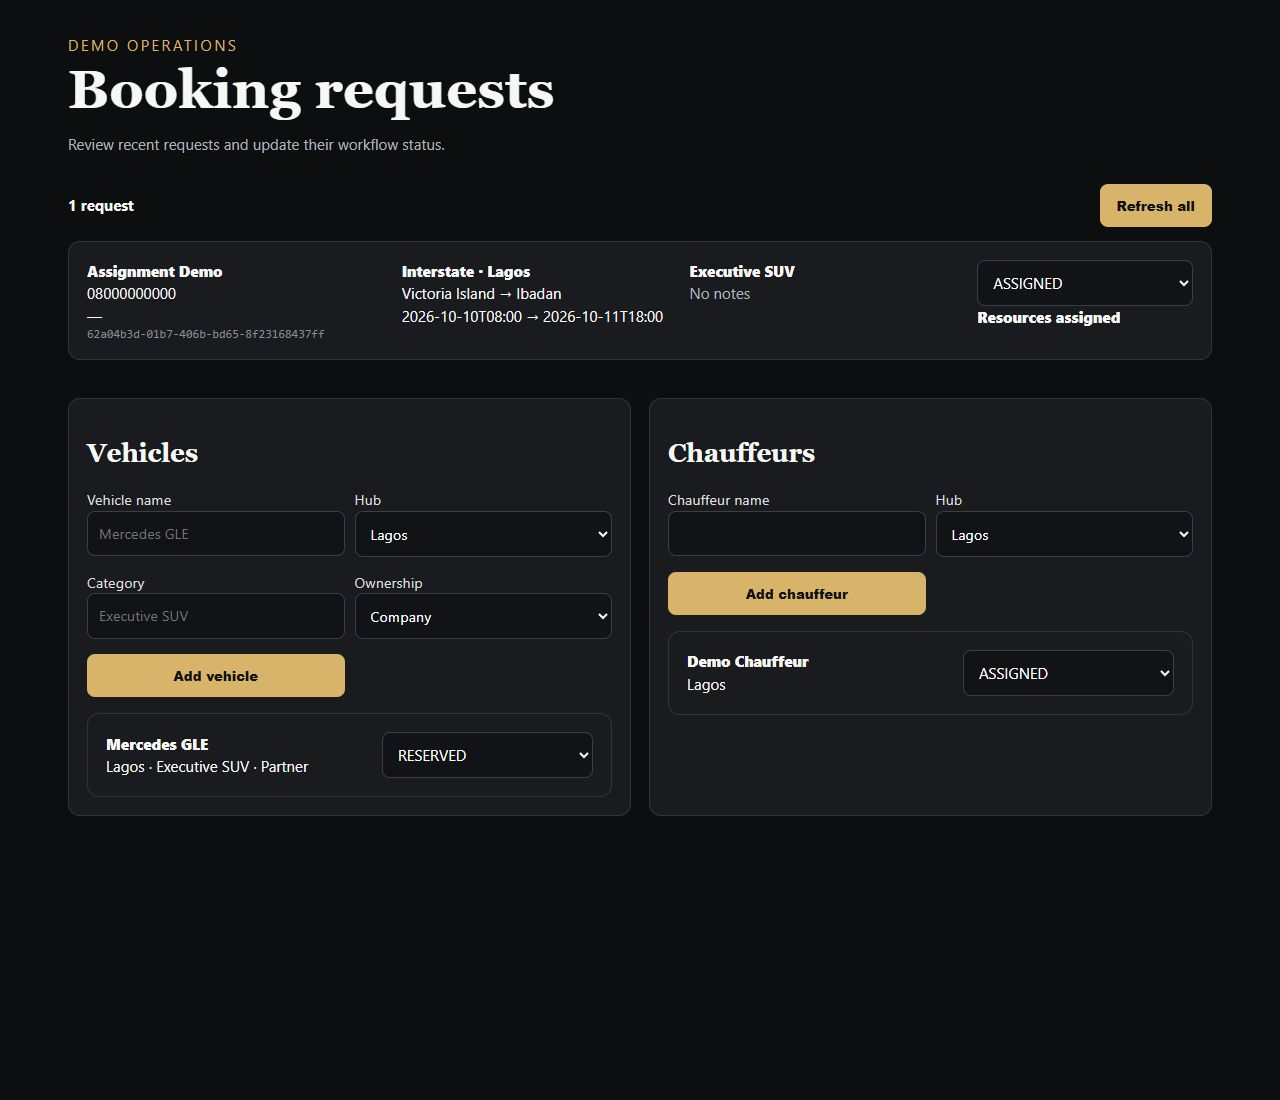
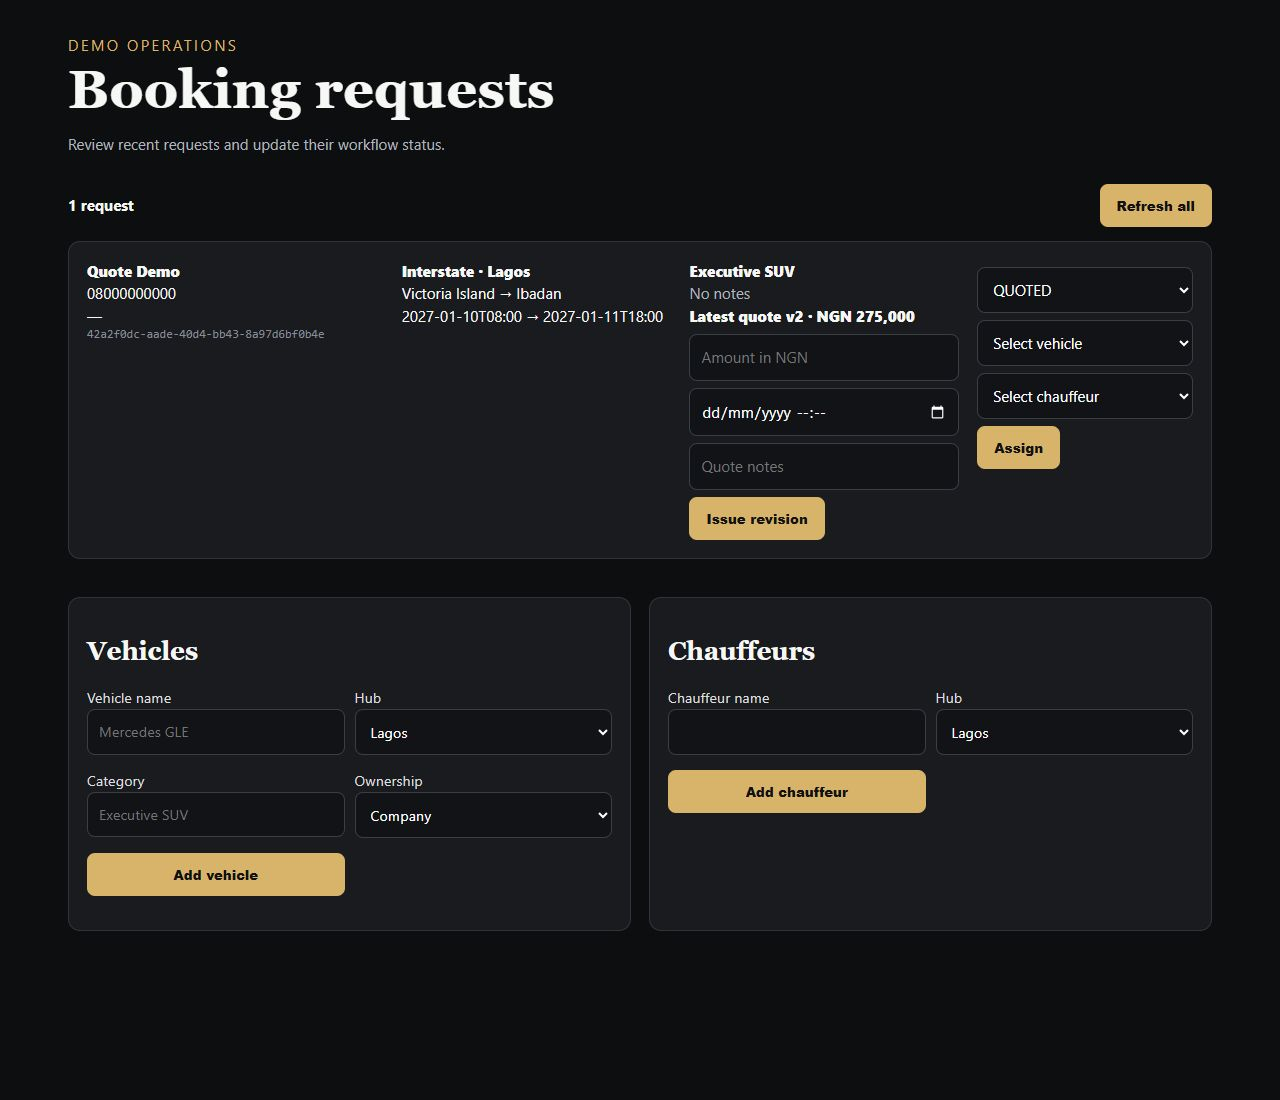
feat: add versioned quotation workflow

diff --git a/infra/environments/demo/app/handler.py b/infra/environments/demo/app/handler.py
@@ -15,9 +15,11 @@ import boto3
 BOOKINGS_TABLE_NAME = os.environ["BOOKINGS_TABLE"]
 VEHICLES_TABLE_NAME = os.environ["VEHICLES_TABLE"]
 CHAUFFEURS_TABLE_NAME = os.environ["CHAUFFEURS_TABLE"]
+QUOTES_TABLE_NAME = os.environ["QUOTES_TABLE"]
 TABLE = boto3.resource("dynamodb").Table(BOOKINGS_TABLE_NAME)
 VEHICLES = boto3.resource("dynamodb").Table(VEHICLES_TABLE_NAME)
 CHAUFFEURS = boto3.resource("dynamodb").Table(CHAUFFEURS_TABLE_NAME)
+QUOTES = boto3.resource("dynamodb").Table(QUOTES_TABLE_NAME)
 DYNAMO_CLIENT = boto3.client("dynamodb")
 ALLOWED_ORIGIN = os.environ.get("ALLOWED_ORIGIN", "*")
 TTL_DAYS = int(os.environ.get("BOOKING_TTL_DAYS", "30"))
@@ -282,6 +284,71 @@ def assign_booking(event, booking_id):
     return response(200, {"booking_id": booking_id, "status": "ASSIGNED", "vehicle_id": vehicle_id, "chauffeur_id": chauffeur_id})
 
 
+def booking_quotes(booking_id):
+    items = [item for item in QUOTES.scan(Limit=100).get("Items", []) if item.get("booking_id") == booking_id]
+    return sorted(items, key=lambda item: int(item.get("version", 0)), reverse=True)
+
+
+def manage_quotes(event, booking_id):
+    denied = require_admin(event)
+    if denied:
+        return denied
+    booking = TABLE.get_item(Key={"booking_id": booking_id}).get("Item")
+    if not booking:
+        return response(404, {"error": "Booking request not found."})
+    method = event.get("requestContext", {}).get("http", {}).get("method")
+    quotes = booking_quotes(booking_id)
+    if method == "GET":
+        return response(200, {"quotes": quotes, "count": len(quotes)})
+    try:
+        data = json.loads(event.get("body") or "{}")
+        amount_ngn = int(data.get("amount_ngn"))
+        valid_until = clean(data.get("valid_until"), 40)
+        valid_time = datetime.fromisoformat(valid_until)
+    except (json.JSONDecodeError, TypeError, ValueError):
+        return response(400, {"error": "Provide a whole-number NGN amount and valid expiry time."})
+    if amount_ngn < 1 or amount_ngn > 100_000_000:
+        return response(400, {"error": "Quote amount must be between NGN 1 and NGN 100,000,000."})
+    if valid_time <= datetime.now():
+        return response(400, {"error": "Quote expiry must be in the future."})
+    version = max((int(item.get("version", 0)) for item in quotes), default=0) + 1
+    quote_id = f"{booking_id}#{version}"
+    now = int(time.time())
+    quote = {
+        "quote_id": quote_id,
+        "booking_id": booking_id,
+        "version": version,
+        "amount_ngn": amount_ngn,
+        "valid_until": valid_until,
+        "notes": clean(data.get("notes"), 500),
+        "status": "ISSUED",
+        "created_at": now,
+        "expires_at": int(valid_time.timestamp()) + (30 * 86400),
+    }
+    try:
+        QUOTES.put_item(Item=quote, ConditionExpression="attribute_not_exists(quote_id)")
+    except Exception as error:
+        error_response = getattr(error, "response", {})
+        if error_response.get("Error", {}).get("Code") == "ConditionalCheckFailedException":
+            return response(409, {"error": "A quote was issued concurrently; refresh and try again."})
+        raise
+    TABLE.update_item(
+        Key={"booking_id": booking_id},
+        UpdateExpression="SET #s = :quoted, latest_quote_id = :quote_id, quote_version = :version, quote_amount_ngn = :amount, updated_at = :updated",
+        ExpressionAttributeNames={"#s": "status"},
+        ExpressionAttributeValues={":quoted": "QUOTED", ":quote_id": quote_id, ":version": version, ":amount": amount_ngn, ":updated": now},
+    )
+    return response(201, quote)
+
+
+def latest_quote(booking_id):
+    quotes = booking_quotes(booking_id)
+    if not quotes:
+        return response(404, {"error": "No quote has been issued for this booking."})
+    quote = quotes[0]
+    return response(200, {key: quote[key] for key in ("booking_id", "version", "amount_ngn", "valid_until", "notes", "status")})
+
+
 def page():
     return """<!doctype html>
 <html lang="en"><head><meta charset="utf-8"><meta name="viewport" content="width=device-width,initial-scale=1">
@@ -311,7 +378,7 @@ def admin_page():
     return """<!doctype html>
 <html lang="en"><head><meta charset="utf-8"><meta name="viewport" content="width=device-width,initial-scale=1">
 <title>Operations Dashboard</title><style>
-:root{color-scheme:dark;--gold:#d8b36a;--panel:#191b1f;--muted:#aeb4be}*{box-sizing:border-box}body{margin:0;background:#0d0e10;color:#f7f7f5;font:15px/1.5 system-ui,sans-serif}.wrap{max-width:1180px;margin:auto;padding:34px 18px 60px}h1{font:700 clamp(2rem,5vw,3.4rem)/1.05 Georgia,serif;margin:.3rem 0}h2{font:700 1.6rem Georgia,serif}.eyebrow{color:var(--gold);letter-spacing:.16em;text-transform:uppercase}.muted{color:var(--muted)}.login,.card,.panel,.resource{background:var(--panel);border:1px solid #30343a;border-radius:12px;padding:18px}.login{max-width:520px;margin:28px 0}.row{display:flex;gap:10px;align-items:end}label{display:block;color:#ddd;font-size:.9rem;margin-bottom:5px;flex:1}input,select{width:100%;background:#111317;color:white;border:1px solid #3a3e45;border-radius:8px;padding:11px;font:inherit}button{background:var(--gold);border:0;border-radius:8px;color:#111;font-weight:800;padding:12px 17px;cursor:pointer}.toolbar{display:flex;justify-content:space-between;align-items:center;margin:28px 0 14px}.cards,.resource-list{display:grid;gap:12px}.card{display:grid;grid-template-columns:1.1fr 1fr 1fr .8fr;gap:18px}.inventory{display:grid;grid-template-columns:1fr 1fr;gap:18px;margin-top:38px}.form-grid{display:grid;grid-template-columns:1fr 1fr;gap:10px;margin-bottom:16px}.form-grid button{align-self:end}.resource{display:grid;grid-template-columns:1fr .8fr;gap:12px;align-items:center}.name{font-weight:800}.ref{font:12px monospace;color:#858c97;overflow-wrap:anywhere}.error{color:#ff9c9c}.hidden{display:none}@media(max-width:780px){.card,.inventory{grid-template-columns:1fr}.row{align-items:stretch;flex-direction:column}.form-grid{grid-template-columns:1fr}}
+:root{color-scheme:dark;--gold:#d8b36a;--panel:#191b1f;--muted:#aeb4be}*{box-sizing:border-box}body{margin:0;background:#0d0e10;color:#f7f7f5;font:15px/1.5 system-ui,sans-serif}.wrap{max-width:1180px;margin:auto;padding:34px 18px 60px}h1{font:700 clamp(2rem,5vw,3.4rem)/1.05 Georgia,serif;margin:.3rem 0}h2{font:700 1.6rem Georgia,serif}.eyebrow{color:var(--gold);letter-spacing:.16em;text-transform:uppercase}.muted{color:var(--muted)}.login,.card,.panel,.resource{background:var(--panel);border:1px solid #30343a;border-radius:12px;padding:18px}.login{max-width:520px;margin:28px 0}.row{display:flex;gap:10px;align-items:end}label{display:block;color:#ddd;font-size:.9rem;margin-bottom:5px;flex:1}input,select{width:100%;background:#111317;color:white;border:1px solid #3a3e45;border-radius:8px;padding:11px;font:inherit}button{background:var(--gold);border:0;border-radius:8px;color:#111;font-weight:800;padding:12px 17px;cursor:pointer}.toolbar{display:flex;justify-content:space-between;align-items:center;margin:28px 0 14px}.cards,.resource-list{display:grid;gap:12px}.card{display:grid;grid-template-columns:1.1fr 1fr 1fr .8fr;gap:18px}.card input,.card select,.card button{margin-top:7px}.inventory{display:grid;grid-template-columns:1fr 1fr;gap:18px;margin-top:38px}.form-grid{display:grid;grid-template-columns:1fr 1fr;gap:10px;margin-bottom:16px}.form-grid button{align-self:end}.resource{display:grid;grid-template-columns:1fr .8fr;gap:12px;align-items:center}.name{font-weight:800}.ref{font:12px monospace;color:#858c97;overflow-wrap:anywhere}.error{color:#ff9c9c}.hidden{display:none}@media(max-width:780px){.card,.inventory{grid-template-columns:1fr}.row{align-items:stretch;flex-direction:column}.form-grid{grid-template-columns:1fr}}
 </style></head><body><main class="wrap"><div class="eyebrow">Demo operations</div><h1>Booking requests</h1><p class="muted">Review recent requests and update their workflow status.</p>
 <section id="login" class="login"><div class="row"><label>Admin password<input id="password" type="password" autocomplete="current-password"></label><button id="open">Open dashboard</button></div><p id="message" class="error" role="alert"></p></section>
 <section id="dashboard" class="hidden"><div class="toolbar"><strong id="count">Requests</strong><button id="refresh">Refresh all</button></div><div id="cards" class="cards"></div>
@@ -324,7 +391,7 @@ const vehicleStatuses=['AVAILABLE','RESERVED','ON_TRIP','MAINTENANCE','INACTIVE'
 function field(parent,text,cls=''){const node=document.createElement('div');node.textContent=text||'—';if(cls)node.className=cls;parent.append(node)}
 async function api(path,options={}){options.headers={...(options.headers||{}),'x-admin-password':password.value};const response=await fetch(path,options),data=await response.json();if(!response.ok)throw Error(data.error||'Request failed');return data}
 function choice(items,idField,label){const select=document.createElement('select'),placeholder=document.createElement('option');placeholder.value='';placeholder.textContent=label;select.append(placeholder);for(const item of items){const option=document.createElement('option');option.value=item[idField];option.textContent=item.name;select.append(option)}return select}
-function render(items,vehicleItems,chauffeurItems){cards.replaceChildren();count.textContent=items.length+' request'+(items.length===1?'':'s');for(const item of items){const card=document.createElement('article');card.className='card';const who=document.createElement('div');field(who,item.name,'name');field(who,item.phone);field(who,item.email);field(who,item.booking_id,'ref');const trip=document.createElement('div');field(trip,item.trip_type+' · '+item.hub,'name');field(trip,item.pickup+' → '+item.destination);field(trip,item.pickup_at+' → '+item.end_at);const vehicle=document.createElement('div');field(vehicle,item.vehicle_preference||'No vehicle preference','name');field(vehicle,item.notes||'No notes','muted');const control=document.createElement('div'),select=document.createElement('select');for(const status of statuses){const option=document.createElement('option');option.value=option.textContent=status;option.selected=status===item.status;select.append(option)}select.addEventListener('change',async()=>{select.disabled=true;try{await api('/admin/bookings/'+encodeURIComponent(item.booking_id),{method:'PATCH',headers:{'content-type':'application/json'},body:JSON.stringify({status:select.value})})}catch(error){message.textContent=error.message}finally{select.disabled=false}});control.append(select);if(!item.vehicle_id&&!item.chauffeur_id){const availableVehicles=vehicleItems.filter(resource=>resource.hub===item.hub&&resource.status==='AVAILABLE'),availableChauffeurs=chauffeurItems.filter(resource=>resource.hub===item.hub&&resource.status==='AVAILABLE'),vehicleChoice=choice(availableVehicles,'vehicle_id','Select vehicle'),chauffeurChoice=choice(availableChauffeurs,'chauffeur_id','Select chauffeur'),assign=document.createElement('button');assign.textContent='Assign';assign.addEventListener('click',async()=>{if(!vehicleChoice.value||!chauffeurChoice.value){message.textContent='Select both a vehicle and chauffeur.';return}assign.disabled=true;try{await api('/admin/bookings/'+encodeURIComponent(item.booking_id)+'/assignment',{method:'PATCH',headers:{'content-type':'application/json'},body:JSON.stringify({vehicle_id:vehicleChoice.value,chauffeur_id:chauffeurChoice.value})});await load()}catch(error){message.textContent=error.message}finally{assign.disabled=false}});control.append(vehicleChoice,chauffeurChoice,assign)}else{field(control,'Resources assigned','name')}card.append(who,trip,vehicle,control);cards.append(card)}}
+function render(items,vehicleItems,chauffeurItems){cards.replaceChildren();count.textContent=items.length+' request'+(items.length===1?'':'s');for(const item of items){const card=document.createElement('article');card.className='card';const who=document.createElement('div');field(who,item.name,'name');field(who,item.phone);field(who,item.email);field(who,item.booking_id,'ref');const trip=document.createElement('div');field(trip,item.trip_type+' · '+item.hub,'name');field(trip,item.pickup+' → '+item.destination);field(trip,item.pickup_at+' → '+item.end_at);const vehicle=document.createElement('div');field(vehicle,item.vehicle_preference||'No vehicle preference','name');field(vehicle,item.notes||'No notes','muted');if(item.quote_version)field(vehicle,'Latest quote v'+item.quote_version+' · NGN '+Number(item.quote_amount_ngn).toLocaleString(),'name');const quoteAmount=document.createElement('input'),quoteExpiry=document.createElement('input'),quoteNotes=document.createElement('input'),issueQuote=document.createElement('button');quoteAmount.type='number';quoteAmount.min='1';quoteAmount.placeholder='Amount in NGN';quoteAmount.setAttribute('aria-label','Quote amount in NGN');quoteExpiry.type='datetime-local';quoteExpiry.setAttribute('aria-label','Quote expiry');quoteNotes.placeholder='Quote notes';quoteNotes.setAttribute('aria-label','Quote notes');issueQuote.textContent=item.quote_version?'Issue revision':'Issue quote';issueQuote.addEventListener('click',async()=>{if(!quoteAmount.value||!quoteExpiry.value){message.textContent='Enter a quote amount and expiry.';return}issueQuote.disabled=true;try{await api('/admin/bookings/'+encodeURIComponent(item.booking_id)+'/quotes',{method:'POST',headers:{'content-type':'application/json'},body:JSON.stringify({amount_ngn:Number(quoteAmount.value),valid_until:quoteExpiry.value,notes:quoteNotes.value})});await load()}catch(error){message.textContent=error.message}finally{issueQuote.disabled=false}});vehicle.append(quoteAmount,quoteExpiry,quoteNotes,issueQuote);const control=document.createElement('div'),select=document.createElement('select');for(const status of statuses){const option=document.createElement('option');option.value=option.textContent=status;option.selected=status===item.status;select.append(option)}select.addEventListener('change',async()=>{select.disabled=true;try{await api('/admin/bookings/'+encodeURIComponent(item.booking_id),{method:'PATCH',headers:{'content-type':'application/json'},body:JSON.stringify({status:select.value})})}catch(error){message.textContent=error.message}finally{select.disabled=false}});control.append(select);if(!item.vehicle_id&&!item.chauffeur_id){const availableVehicles=vehicleItems.filter(resource=>resource.hub===item.hub&&resource.status==='AVAILABLE'),availableChauffeurs=chauffeurItems.filter(resource=>resource.hub===item.hub&&resource.status==='AVAILABLE'),vehicleChoice=choice(availableVehicles,'vehicle_id','Select vehicle'),chauffeurChoice=choice(availableChauffeurs,'chauffeur_id','Select chauffeur'),assign=document.createElement('button');assign.textContent='Assign';assign.addEventListener('click',async()=>{if(!vehicleChoice.value||!chauffeurChoice.value){message.textContent='Select both a vehicle and chauffeur.';return}assign.disabled=true;try{await api('/admin/bookings/'+encodeURIComponent(item.booking_id)+'/assignment',{method:'PATCH',headers:{'content-type':'application/json'},body:JSON.stringify({vehicle_id:vehicleChoice.value,chauffeur_id:chauffeurChoice.value})});await load()}catch(error){message.textContent=error.message}finally{assign.disabled=false}});control.append(vehicleChoice,chauffeurChoice,assign)}else{field(control,'Resources assigned','name')}card.append(who,trip,vehicle,control);cards.append(card)}}
 function renderResources(target,items,type){target.replaceChildren();const idField=type==='vehicles'?'vehicle_id':'chauffeur_id',options=type==='vehicles'?vehicleStatuses:chauffeurStatuses;for(const item of items){const card=document.createElement('article');card.className='resource';const details=document.createElement('div');field(details,item.name,'name');field(details,item.hub+(item.category?' · '+item.category:'')+(item.ownership?' · '+item.ownership:''));const select=document.createElement('select');for(const status of options){const option=document.createElement('option');option.value=option.textContent=status;option.selected=status===item.status;select.append(option)}select.addEventListener('change',async()=>{select.disabled=true;try{await api('/admin/'+type+'/'+encodeURIComponent(item[idField]),{method:'PATCH',headers:{'content-type':'application/json'},body:JSON.stringify({status:select.value})})}catch(error){message.textContent=error.message}finally{select.disabled=false}});card.append(details,select);target.append(card)}}
 async function load(){message.textContent='';try{const [bookingData,vehicleData,chauffeurData]=await Promise.all([api('/admin/bookings'),api('/admin/vehicles'),api('/admin/chauffeurs')]);login.classList.add('hidden');dashboard.classList.remove('hidden');render(bookingData.bookings,vehicleData.items,chauffeurData.items);renderResources(vehicles,vehicleData.items,'vehicles');renderResources(chauffeurs,chauffeurData.items,'chauffeurs')}catch(error){message.textContent=error.message}}
 async function createResource(event,type){event.preventDefault();const form=event.currentTarget,data=Object.fromEntries(new FormData(form));try{await api('/admin/'+type,{method:'POST',headers:{'content-type':'application/json'},body:JSON.stringify(data)});form.reset();await load()}catch(error){message.textContent=error.message}}
@@ -348,6 +415,8 @@ def lambda_handler(event, context):
         return list_bookings(event)
     if method == "PATCH" and path.startswith("/admin/bookings/") and path.endswith("/assignment"):
         return assign_booking(event, html.escape(path.split("/")[-2]))
+    if method in {"GET", "POST"} and path.startswith("/admin/bookings/") and path.endswith("/quotes"):
+        return manage_quotes(event, html.escape(path.split("/")[-2]))
     if method == "PATCH" and path.startswith("/admin/bookings/"):
         return update_booking(event, html.escape(path.rsplit("/", 1)[-1]))
     if method in {"GET", "POST"} and path == "/admin/vehicles":
@@ -361,5 +430,7 @@ def lambda_handler(event, context):
     if method == "POST" and path == "/bookings":
         return create_booking(event)
     if method == "GET" and path.startswith("/bookings/"):
+        if path.endswith("/quote"):
+            return latest_quote(html.escape(path.split("/")[-2]))
         return booking_status(html.escape(path.rsplit("/", 1)[-1]))
     return response(404, {"error": "Not found."})

diff --git a/tests/test_demo_handler.py b/tests/test_demo_handler.py
@@ -29,7 +29,15 @@ class FakeTable:
 
     def update_item(self, Key, ExpressionAttributeValues, **kwargs):
         item = self.items[next(iter(Key.values()))]
-        item["status"] = ExpressionAttributeValues[":status"]
+        if ":status" in ExpressionAttributeValues:
+            item["status"] = ExpressionAttributeValues[":status"]
+        if ":quoted" in ExpressionAttributeValues:
+            item.update(
+                status=ExpressionAttributeValues[":quoted"],
+                latest_quote_id=ExpressionAttributeValues[":quote_id"],
+                quote_version=ExpressionAttributeValues[":version"],
+                quote_amount_ngn=ExpressionAttributeValues[":amount"],
+            )
         item["updated_at"] = ExpressionAttributeValues[":updated"]
         return {"Attributes": item}
 
@@ -38,6 +46,7 @@ FAKE_TABLES = {
     "test-bookings": FakeTable(),
     "test-vehicles": FakeTable(),
     "test-chauffeurs": FakeTable(),
+    "test-quotes": FakeTable(),
 }
 
 
@@ -70,6 +79,7 @@ sys.modules["boto3"] = fake_boto3
 os.environ["BOOKINGS_TABLE"] = "test-bookings"
 os.environ["VEHICLES_TABLE"] = "test-vehicles"
 os.environ["CHAUFFEURS_TABLE"] = "test-chauffeurs"
+os.environ["QUOTES_TABLE"] = "test-quotes"
 os.environ["BOOKING_TTL_DAYS"] = "30"
 os.environ["ALLOWED_ORIGIN"] = "*"
 test_salt = b"unit-test-salt"
@@ -231,6 +241,22 @@ class DemoHandlerTests(unittest.TestCase):
             None,
         )
         self.assertEqual(json.loads(updated["body"])["status"], "MAINTENANCE")
+
+    def test_quotes_are_versioned_and_latest_is_public(self):
+        headers = {"x-admin-password": "test-admin-password"}
+        booking = handler.lambda_handler(
+            event("POST", "/bookings", {"name": "Quote Test", "phone": "+2348000000004", "hub": "Lagos", "trip_type": "Interstate", "pickup": "Ikoyi", "destination": "Abeokuta", "pickup_at": "2027-01-10T09:00", "end_at": "2027-01-10T18:00"}),
+            None,
+        )
+        booking_id = json.loads(booking["body"])["booking_id"]
+        first = handler.lambda_handler(event("POST", f"/admin/bookings/{booking_id}/quotes", {"amount_ngn": 250000, "valid_until": "2027-01-05T18:00", "notes": "Initial estimate"}, headers), None)
+        second = handler.lambda_handler(event("POST", f"/admin/bookings/{booking_id}/quotes", {"amount_ngn": 275000, "valid_until": "2027-01-06T18:00", "notes": "Includes interstate tolls"}, headers), None)
+        history = handler.lambda_handler(event("GET", f"/admin/bookings/{booking_id}/quotes", headers=headers), None)
+        latest = handler.lambda_handler(event("GET", f"/bookings/{booking_id}/quote"), None)
+        self.assertEqual(first["statusCode"], 201)
+        self.assertEqual(json.loads(second["body"])["version"], 2)
+        self.assertEqual(json.loads(history["body"])["count"], 2)
+        self.assertEqual(json.loads(latest["body"])["amount_ngn"], 275000)
 
     def test_admin_can_manage_chauffeur_availability(self):
         headers = {"x-admin-password": "test-admin-password"}

diff --git a/scripts/preview-demo.py b/scripts/preview-demo.py
@@ -29,7 +29,15 @@ class MemoryTable:
 
     def update_item(self, Key, ExpressionAttributeValues, **_kwargs):
         item = self.items[next(iter(Key.values()))]
-        item["status"] = ExpressionAttributeValues[":status"]
+        if ":status" in ExpressionAttributeValues:
+            item["status"] = ExpressionAttributeValues[":status"]
+        if ":quoted" in ExpressionAttributeValues:
+            item.update(
+                status=ExpressionAttributeValues[":quoted"],
+                latest_quote_id=ExpressionAttributeValues[":quote_id"],
+                quote_version=ExpressionAttributeValues[":version"],
+                quote_amount_ngn=ExpressionAttributeValues[":amount"],
+            )
         item["updated_at"] = ExpressionAttributeValues[":updated"]
         return {"Attributes": item}
 
@@ -38,6 +46,7 @@ TABLES = {
     "local-bookings": MemoryTable(),
     "local-vehicles": MemoryTable(),
     "local-chauffeurs": MemoryTable(),
+    "local-quotes": MemoryTable(),
 }
 
 
@@ -69,6 +78,7 @@ sys.modules["boto3"] = fake_boto3
 os.environ.setdefault("BOOKINGS_TABLE", "local-bookings")
 os.environ.setdefault("VEHICLES_TABLE", "local-vehicles")
 os.environ.setdefault("CHAUFFEURS_TABLE", "local-chauffeurs")
+os.environ.setdefault("QUOTES_TABLE", "local-quotes")
 local_salt = b"local-preview-only"
 local_digest = hashlib.pbkdf2_hmac("sha256", b"demo-admin", local_salt, 10_000)
 os.environ.setdefault(

diff --git a/README.md b/README.md
@@ -16,6 +16,7 @@ The initial operating hubs are Lagos, Ogun, Oyo and Abuja, with local and approv
 - Added vehicle and chauffeur availability management across all four hubs
 - Added atomic booking assignment that reserves a vehicle and chauffeur together
 - Rejects unavailable, wrong-hub and overlapping resource assignments
+- Preserves immutable quote revisions and exposes only the latest customer quote
 - Automated Python tests plus Terraform formatting and validation in CI
 - Documented a production growth path without forcing production cost on the MVP
 
@@ -28,11 +29,13 @@ flowchart LR
     Lambda --> Bookings[(DynamoDB bookings<br/>30-day TTL)]
     Lambda --> Vehicles[(DynamoDB vehicles)]
     Lambda --> Chauffeurs[(DynamoDB chauffeurs)]
+    Lambda --> Quotes[(DynamoDB quote versions)]
     Lambda --> Logs[CloudWatch Logs<br/>1-day retention]
     Budget[AWS Budget<br/>USD 1 alerts] -. monitors .-> Lambda
     Budget -. monitors .-> Bookings
     Budget -. monitors .-> Vehicles
     Budget -. monitors .-> Chauffeurs
+    Budget -. monitors .-> Quotes
 ```
 
 The zero-funding path deliberately omits API Gateway, a load balancer, NAT Gateway, containers and RDS. The reusable production foundation remains available for a later, funded phase.
@@ -61,7 +64,7 @@ The recommended starting point is `infra/environments/demo`. It replaces all alw
 
 - One Python Lambda function with 128 MB memory and concurrency capped at one
 - One Lambda Function URL, with no load balancer or API Gateway
-- Three DynamoDB tables for bookings, vehicles and chauffeurs, each using 1 provisioned read and 1 provisioned write unit
+- Four DynamoDB tables for bookings, vehicles, chauffeurs and quote versions, each using 1 provisioned read and 1 provisioned write unit
 - One-day CloudWatch log retention
 - Automatic deletion of booking requests after 30 days
 - A USD 1 actual and forecast budget notification
@@ -220,6 +223,5 @@ AWS serverless architecture, Terraform module design, IAM least privilege, Dynam
 
 ## Roadmap
 
-- Versioned quotation workflow
 - Notifications and payment-provider adapters
 - Production deployment with controlled promotion and rollback
